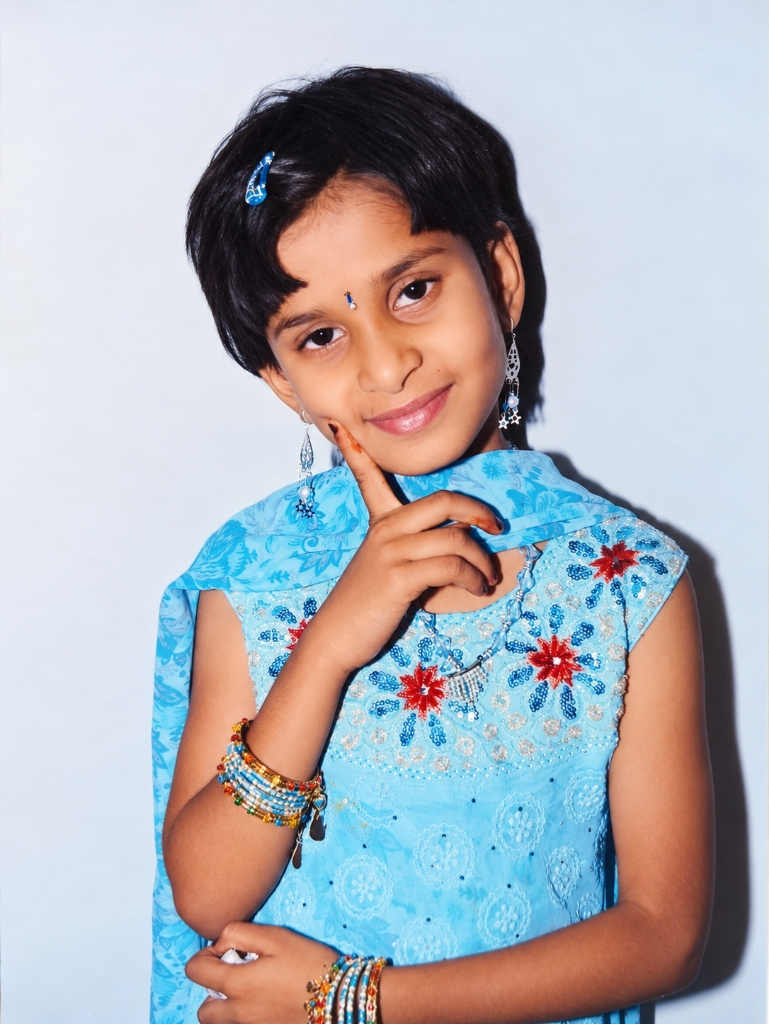
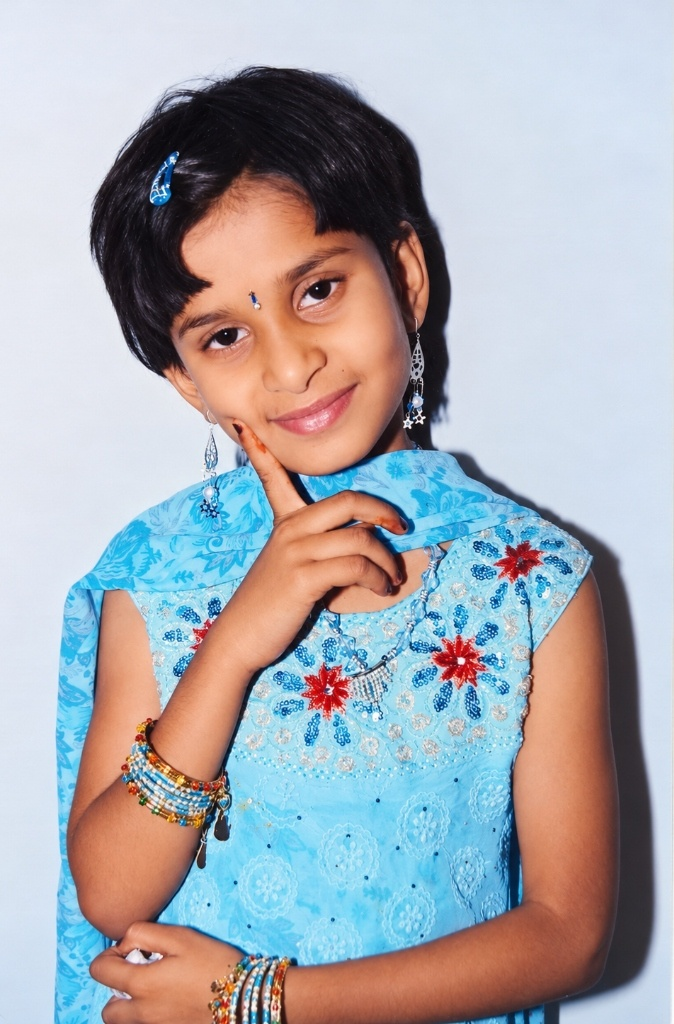
feat: replace bride and groom individual portraits with new high-res photos

diff --git a/src/wedding.config.ts b/src/wedding.config.ts
@@ -29,10 +29,10 @@ export const weddingConfig = {
     // and update the paths or framing position below!
     // =========================================================================
     bridePhoto: '/client-images/bride.jpg',
-    bridePhotoPosition: 'center', // e.g., 'center', 'top', 'center 30%'
+    bridePhotoPosition: 'center 20%',
 
     groomPhoto: '/client-images/groom.jpg',
-    groomPhotoPosition: 'center', // e.g., 'center', 'top', 'center 30%'
+    groomPhotoPosition: 'center 15%',
 
     bride: 'P. Yashaswini',
     brideShort: 'Yashaswini',
